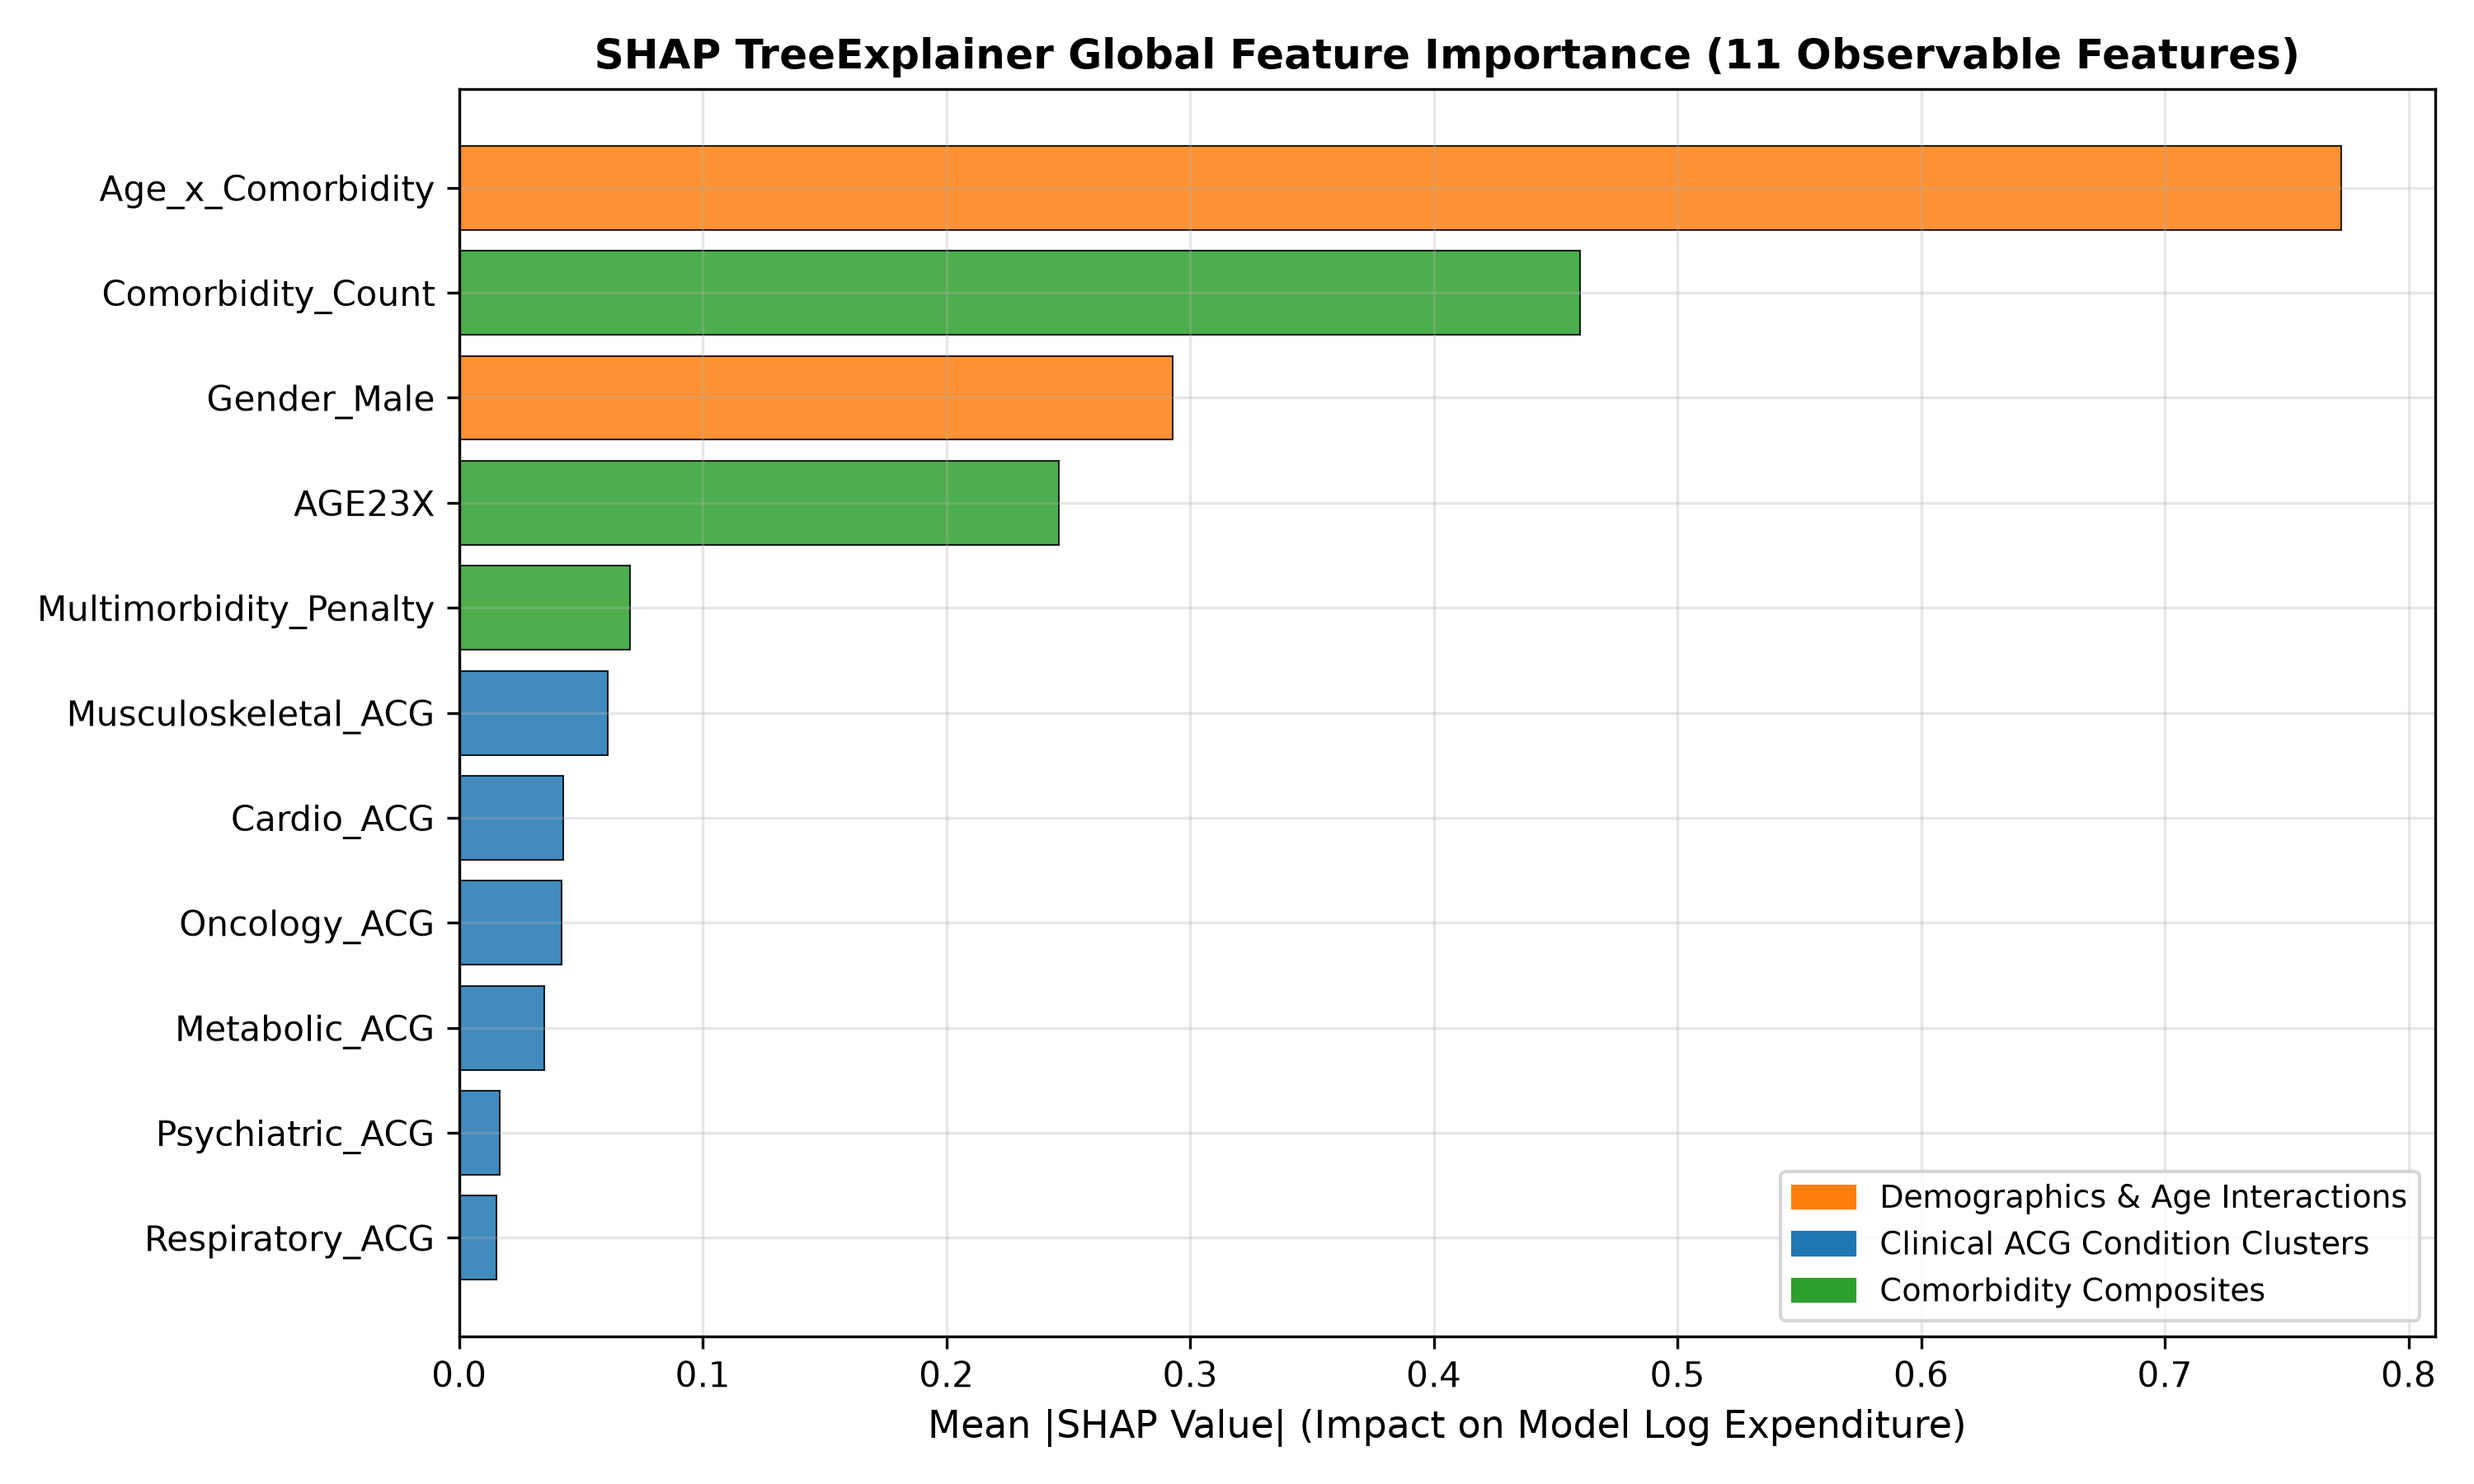
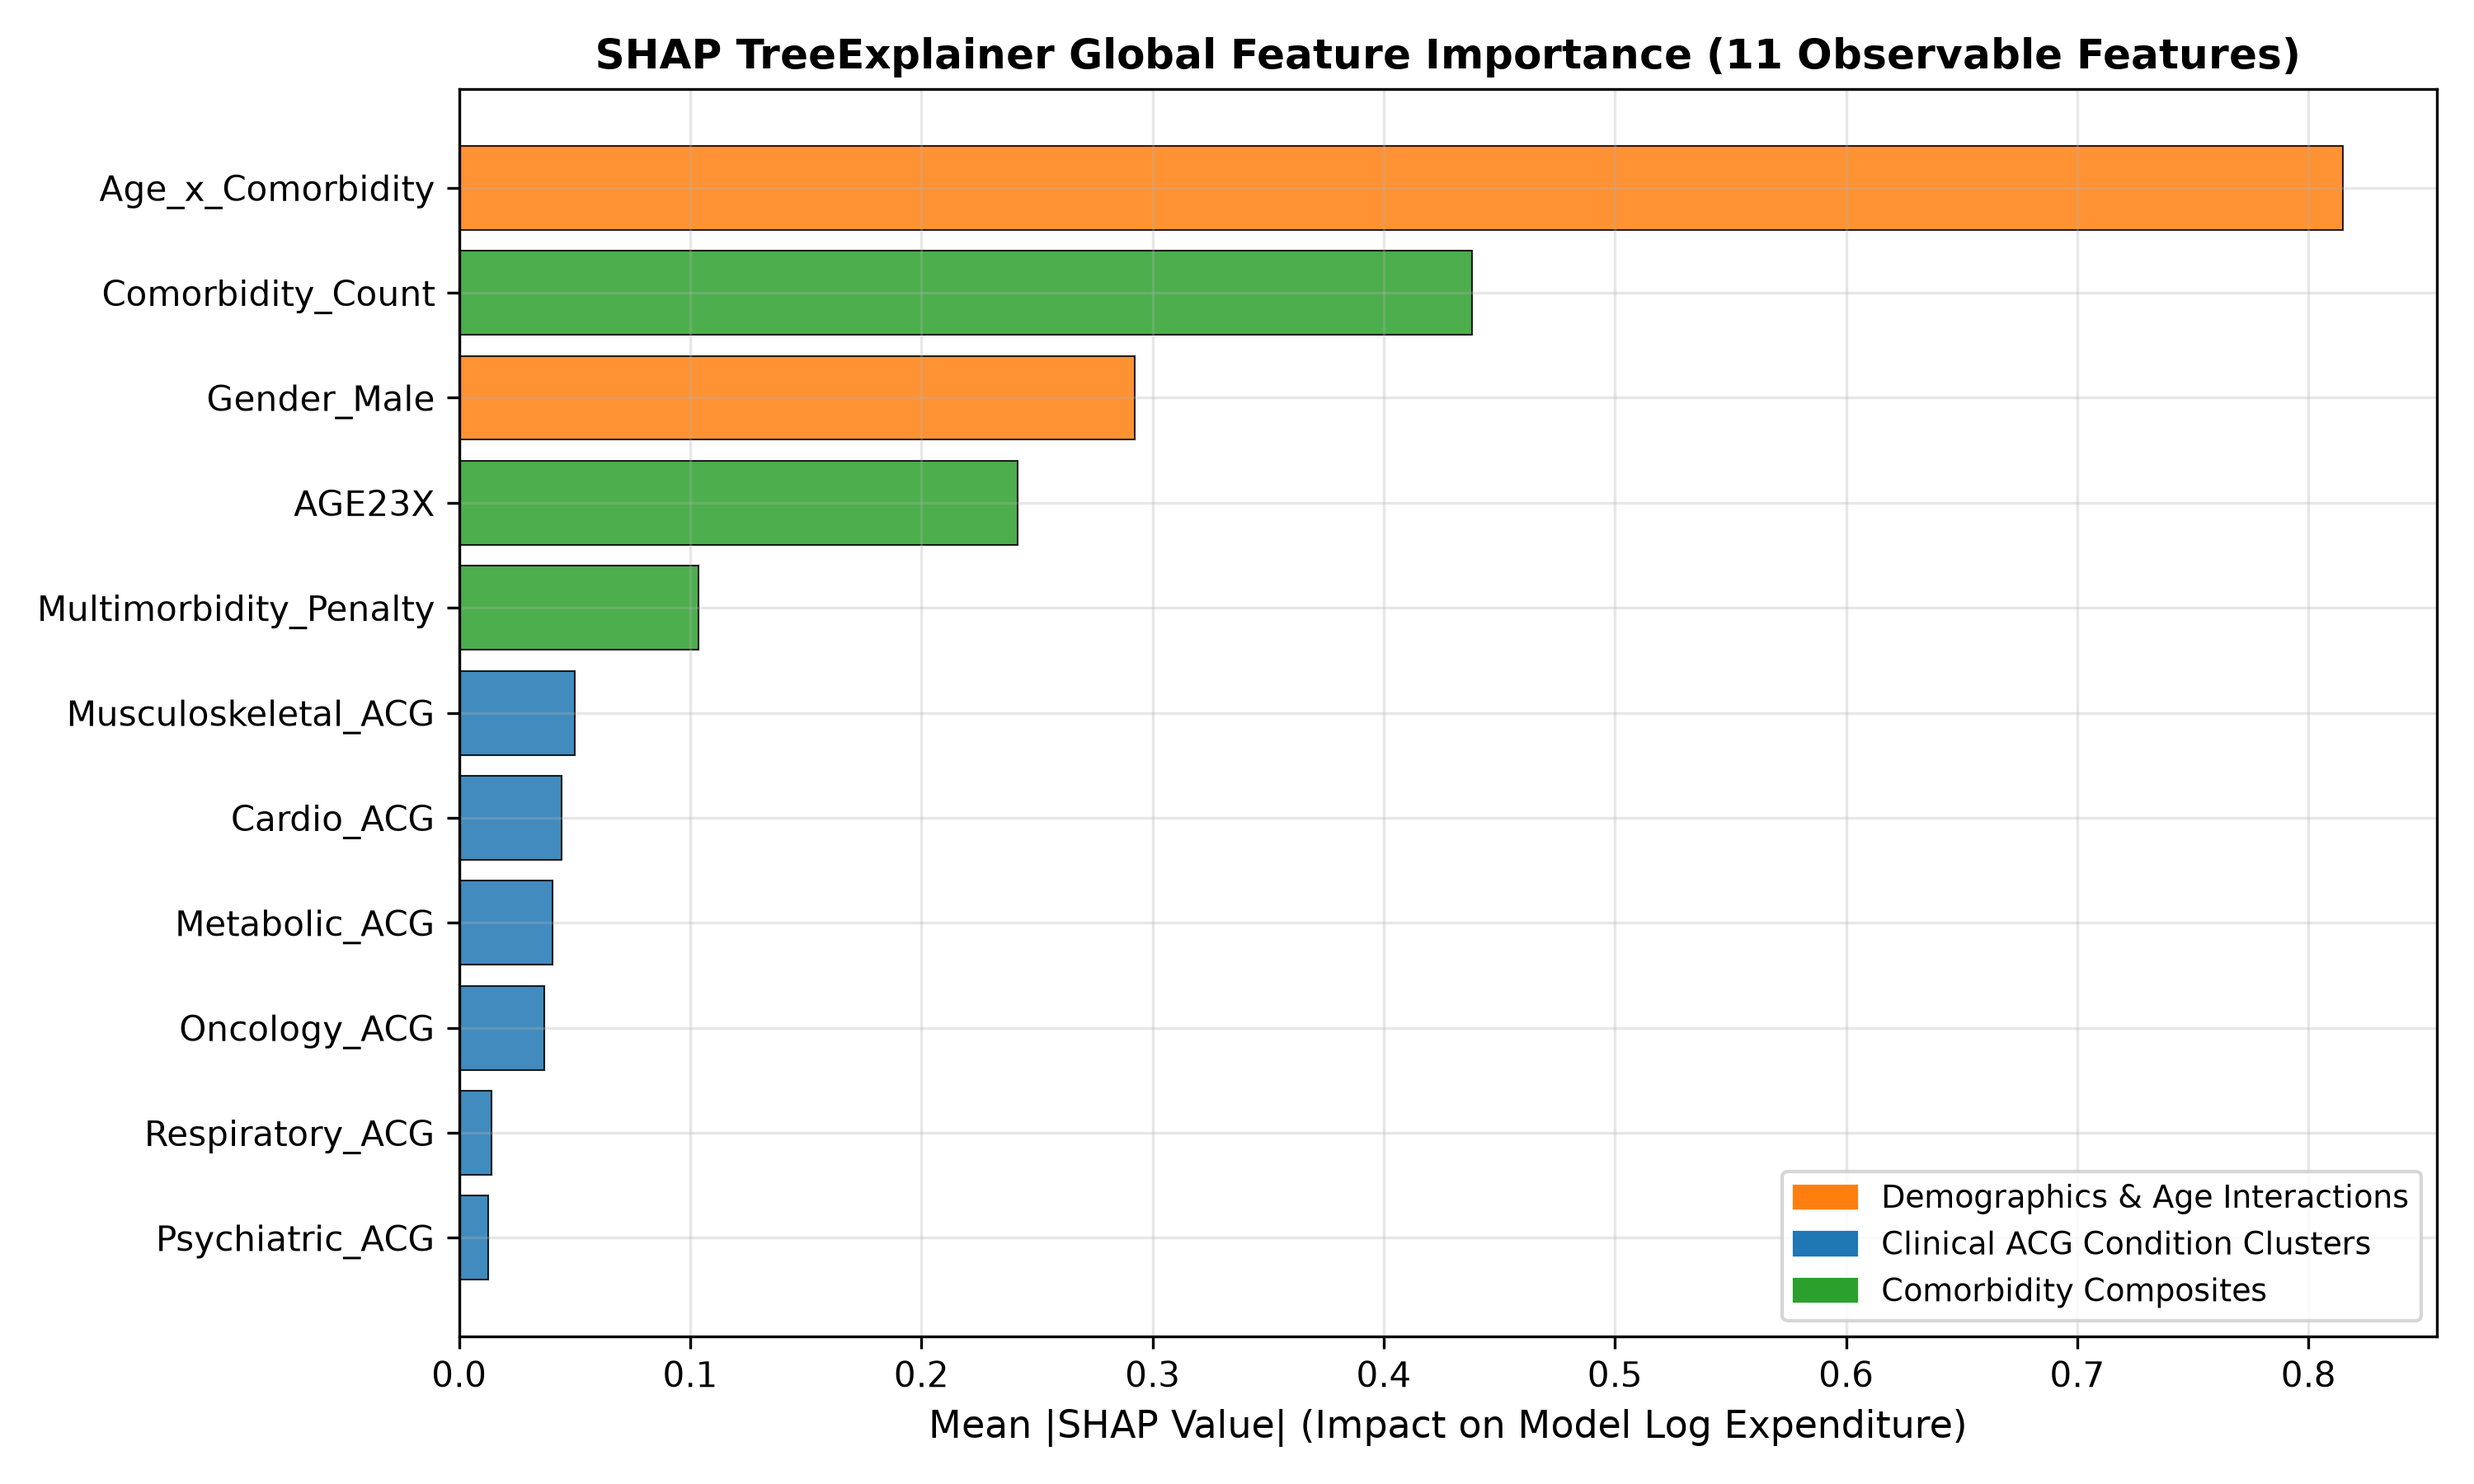
feat(actuarial): make base cost configurable, align runner with frozen artifacts, and declare dependencies

diff --git a/research_completion/experiments/run_comprehensive_benchmarks.py b/research_completion/experiments/run_comprehensive_benchmarks.py
@@ -7,6 +7,7 @@ and figure generation. Outputs machine-readable EXPERIMENT_REGISTRY.json and rep
 import os
 import sys
 import json
+import pickle
 import math
 import hashlib
 import warnings
@@ -210,19 +211,16 @@ def main():
     p_rf = np.expm1(rf_reg.predict(X_test_obs))
     reg_models["Random Forest (Observable)"] = p_rf
 
-    # 2.6 XGBoost Regressor (Observable, log scale)
-    xgb_reg = xgb.XGBRegressor(
-        n_estimators=100, max_depth=4, learning_rate=0.05,
-        subsample=0.8, colsample_bytree=0.8, random_state=42, n_jobs=-1
-    )
-    xgb_reg.fit(X_train_obs, y_train_log)
-    p_xgb_obs = np.expm1(xgb_reg.predict(X_test_obs))
+    # 2.6 XGBoost Regressor (Observable, log scale) - Evaluated directly from frozen artifact
+    with open(os.path.join(REPO_ROOT, "ml_model", "risk_model.pkl"), "rb") as f:
+        frozen_xgb_reg = pickle.load(f)
+    p_xgb_obs = np.expm1(frozen_xgb_reg.predict(X_test_obs))
     reg_models["XGBoost Regressor (Observable)"] = p_xgb_obs
 
-    # 2.7 Tweedie GLM (Observable, direct dollars)
-    tw_obs = TweedieRegressor(power=1.5, link='log', max_iter=500, alpha=0.1)
-    tw_obs.fit(X_train_obs, y_train_raw)
-    p_tw_obs = tw_obs.predict(X_test_obs)
+    # 2.7 Tweedie GLM (Observable, direct dollars) - Evaluated directly from frozen artifact
+    with open(os.path.join(REPO_ROOT, "ml_model", "artifacts", "risk_model_tweedie_observable.pkl"), "rb") as f:
+        frozen_tw_obs = pickle.load(f)
+    p_tw_obs = frozen_tw_obs.predict(X_test_obs)
     reg_models["Tweedie GLM (Observable)"] = p_tw_obs
 
     # 2.8 Two-Part Model (Part 1 Logistic + Part 2 OLS with Duan smearing on 14-feat)
@@ -316,22 +314,18 @@ def main():
     lr_clin.fit(X_train_obs[clin_cols], y_train_cls_tgt2)
     cls_models["Clinical Conditions Only"] = lr_clin.predict_proba(X_test_obs[clin_cols])[:, 1]
 
-    # 3.4 Full Observable Logistic Regression (Unweighted fit)
-    lr_obs_unw = LogisticRegression(max_iter=500, random_state=42)
-    lr_obs_unw.fit(X_train_obs, y_train_cls_tgt2)
-    cls_models["Logistic Regression (11-Feat Observable)"] = lr_obs_unw.predict_proba(X_test_obs)[:, 1]
+    # 3.4 Full Observable Logistic Regression (Weighted fit) - Evaluated directly from frozen artifact
+    with open(os.path.join(REPO_ROOT, "ml_model", "artifacts", "risk_model_classifier_observable_weighted_p90.pkl"), "rb") as f:
+        frozen_lr_wtd = pickle.load(f)
+    cls_models["Logistic Regression (11-Feat Observable)"] = frozen_lr_wtd.predict_proba(X_test_obs)[:, 1]
+    cls_models["Logistic Regression (11-Feat Wtd Fit)"] = frozen_lr_wtd.predict_proba(X_test_obs)[:, 1]
 
-    # 3.5 Full Observable Logistic Regression (Weighted fit)
-    lr_obs_wtd = LogisticRegression(max_iter=500, random_state=42)
-    lr_obs_wtd.fit(X_train_obs, y_train_cls_tgt2, sample_weight=w_train_norm)
-    cls_models["Logistic Regression (11-Feat Wtd Fit)"] = lr_obs_wtd.predict_proba(X_test_obs)[:, 1]
-
-    # 3.6 Random Forest Classifier (11-Feat Observable)
+    # 3.5 Random Forest Classifier (11-Feat Observable)
     rf_cls = RandomForestClassifier(n_estimators=100, max_depth=6, random_state=42, n_jobs=-1)
     rf_cls.fit(X_train_obs, y_train_cls_tgt2)
     cls_models["Random Forest (11-Feat Observable)"] = rf_cls.predict_proba(X_test_obs)[:, 1]
 
-    # 3.7 XGBoost Classifier (Uncalibrated & Platt Calibrated)
+    # 3.6 XGBoost Classifier (Uncalibrated & Platt Calibrated)
     xgb_cls = xgb.XGBClassifier(n_estimators=100, max_depth=3, learning_rate=0.05, random_state=42, n_jobs=-1, eval_metric='logloss')
     xgb_cls.fit(X_train_obs, y_train_cls_tgt2)
     cls_models["XGBoost (Uncalibrated)"] = xgb_cls.predict_proba(X_test_obs)[:, 1]
@@ -340,10 +334,10 @@ def main():
     cal_xgb.fit(X_train_obs, y_train_cls_tgt2)
     cls_models["XGBoost (Platt Calibrated)"] = cal_xgb.predict_proba(X_test_obs)[:, 1]
 
-    # 3.8 14-Feature Oracle Logistic Regression
-    lr_oracle = LogisticRegression(max_iter=500, random_state=42)
-    lr_oracle.fit(X_train_full, y_train_cls_tgt2)
-    cls_models["Logistic Regression (14-Feat Oracle)"] = lr_oracle.predict_proba(X_test_full)[:, 1]
+    # 3.7 14-Feature Oracle Logistic Regression - Evaluated directly from frozen artifact
+    with open(os.path.join(REPO_ROOT, "ml_model", "artifacts", "risk_model_classifier_weighted_p90.pkl"), "rb") as f:
+        frozen_lr_oracle = pickle.load(f)
+    cls_models["Logistic Regression (14-Feat Oracle)"] = frozen_lr_oracle.predict_proba(X_test_full)[:, 1]
 
     for name, prob in cls_models.items():
         roc = float(roc_auc_score(y_test_cls_tgt2, prob)) if len(np.unique(prob)) > 1 else 0.5
@@ -463,12 +457,12 @@ def main():
     # =========================================================================
     print("\n--- Running SHAP Explainability & Stability Audit ---")
 
-    explainer = shap.TreeExplainer(xgb_reg)
+    explainer = shap.TreeExplainer(frozen_xgb_reg)
     shap_vals = explainer.shap_values(X_test_obs)
 
     # 5.1 Numerical additivity check
     base_val = explainer.expected_value
-    pred_log_direct = xgb_reg.predict(X_test_obs)
+    pred_log_direct = frozen_xgb_reg.predict(X_test_obs)
     sum_shap = np.sum(shap_vals, axis=1) + base_val
     max_additivity_error = float(np.max(np.abs(pred_log_direct - sum_shap)))
     print(f"SHAP Numerical Additivity Check: Max Error = {max_additivity_error:.8f} (Valid: {max_additivity_error < 1e-4})")
@@ -723,6 +717,7 @@ def main():
     ax2.legend(loc='upper left', fontsize=9)
     ax2.grid(True, alpha=0.3)
 
+    fig.suptitle("Hyperledger Fabric 5-Org Performance (Historical Baseline Benchmark: Commit 944fb0d | Network Offline)", fontsize=11, style='italic')
     plt.tight_layout()
     fig5_path = os.path.join(FIG_DIR, "fig5_blockchain_benchmarks.png")
     plt.savefig(fig5_path)

diff --git a/ml_model/risk_engine.py b/ml_model/risk_engine.py
@@ -622,7 +622,7 @@ def parse_structured_clinical_conditions(structured_input, age=None):
 
 
 
-def monte_carlo_simulation(predicted_mean_cost, n_simulations=5000, seed=None):
+def monte_carlo_simulation(predicted_mean_cost, n_simulations=5000, seed=None, base_cost=500.0):
     """
     Monte Carlo parametric Value-at-Risk (VaR) simulation using a synthetic Gamma loss distribution.
     
@@ -630,21 +630,25 @@ def monte_carlo_simulation(predicted_mean_cost, n_simulations=5000, seed=None):
     This output is strictly an exploratory parametric loss simulation heuristic for technical demonstration.
     Current MEPS prediction metrics and statistical associations do NOT validate commercial insurance pricing,
     premium calculation, underwriting adequacy, or reserve solvency.
+
+    NOTE ON BASE_COST FLOOR:
+    The default base_cost ($500.00) originated in prototype commit af6a322 as an arbitrary additive scalar
+    representing baseline administrative/preventative overhead. It is NOT derived from statutory filings or
+    actuarial tables and is configurable here for empirical sensitivity analysis.
     """
     if predicted_mean_cost is None:
-        predicted_mean_cost = 500.0
+        predicted_mean_cost = base_cost
     try:
         val = float(predicted_mean_cost)
         if np.isnan(val) or val <= 0:
-            predicted_mean_cost = 500.0
+            predicted_mean_cost = base_cost
         else:
             predicted_mean_cost = min(val, 10_000_000.0)
     except (ValueError, TypeError):
-        predicted_mean_cost = 500.0
+        predicted_mean_cost = base_cost
 
     shape = 1.5
     scale = predicted_mean_cost / shape
-    base_cost = 500.0
 
     if seed is not None:
         rng = np.random.default_rng(seed)

diff --git a/ml_model/tests/test_premium_simulation.py b/ml_model/tests/test_premium_simulation.py
@@ -71,6 +71,14 @@ class TestPremiumSimulationInvariants:
             prem, p5, p95 = monte_carlo_simulation(c, seed=42)
             assert prem > c, f"Premium ({prem}) does not exceed expected cost ({c})"
 
+    def test_configurable_base_cost_scenario(self):
+        """Allows sensitivity testing with custom base floors (e.g. $0 or $250)."""
+        cost = 5000.0
+        prem_default, _, _ = monte_carlo_simulation(cost, seed=42, base_cost=500.0)
+        prem_zero, _, _ = monte_carlo_simulation(cost, seed=42, base_cost=0.0)
+        prem_250, _, _ = monte_carlo_simulation(cost, seed=42, base_cost=250.0)
+        assert prem_zero < prem_250 < prem_default, "Custom base_cost did not scale premium monotonically"
+
     def test_engine_integration_and_disclaimers(self):
         """Integrated risk assessment returns properly structured premium and semantic qualifications."""
         patient_data = {
